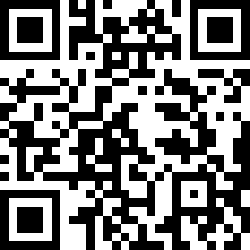
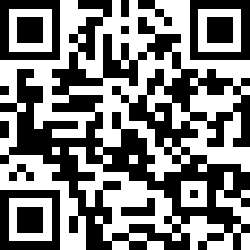
fix: 🐛 fix source link (#32)

diff --git a/jarvis/lavajug-2025/index.html b/jarvis/lavajug-2025/index.html
@@ -1,4 +1,4 @@
-<!doctype html><html lang=en><head><meta charset=UTF-8><meta name=viewport content="width=device-width,initial-scale=1"><link rel=manifest href=./manifest.json><link rel="shortcut icon" href=./favicon.ico sizes=any type=image/x-icon><title>🤖 Crée ton assistant personnel<br>avec Picocli et LangChain4J 🧑💻 ☕</title><link rel=stylesheet href=slidesk.css><link href=./plugins/footer/footer.css rel=stylesheet><link href=./plugins/animate/animate.css rel=stylesheet><link href=./plugins/number/number.css rel=stylesheet><link href=./plugins/steps/steps.css rel=stylesheet><link rel=stylesheet href=assets/css/custom.css></head><body class=sd-app><section class="sd-slide main-slide" data-num=1 data-slug=!slide-1><h2></h2><h1>🤖 Crée ton assistant personnel<br>avec Picocli et LangChain4J 🧑💻 ☕</h1><br><br><figure class=sd-img style=margin-top:80px><img src=assets/images/logo-conf.png loading=lazy alt="conference logo"><figcaption style=display:none>conference logo</figcaption></figure><aside class=sd-notes><br><br>Hello, welcome everyone!<br><br></aside></section><section class="sd-slide white-footer" data-num=2 data-slug=merci-><h2>Merci !!!</h2><figure class=sd-img style=max-width:100vw><img src=assets/images/love.jpg loading=lazy alt=love width=1920 height=1280><figcaption style=display:none>love</figcaption></figure><h1 style=color:#fff;position:absolute;top:40%;left:60%>Merci !!!</h1><div class="full-image-author image-author-white"><a href=https://unsplash.com/fr/@bel2000a>Belinda Fewings</a></div><aside class=sd-notes><br><br>I'm very proud to be here.<br>Thank you for coming to this session, and thank you to the organizers for selecting my conference<br><br></aside></section><section class="sd-slide slide-text" data-num=3 data-slug=stphane-philippart><h2>Stéphane Philippart</h2><figure class=sd-img style=float:right;margin-top:-16vh><img src=assets/images/speaker/whoami.png loading=lazy alt="" width=494 height=155><figcaption style=display:none></figcaption></figure><ul><li>🏷 🥑 DeveloperAdvocate@OVHCloud 🦄</li><li>🏷 Co-créateur de TADx (meetups à Tours)</li></ul><figure class=sd-img style=float:right;margin-top:-9vh><img src=assets/images/speaker/tadx.png loading=lazy alt=tadx width=304 height=165><figcaption style=display:none>tadx</figcaption></figure><ul><li>☕ Développeur Java dans les nuages ☁</li></ul><figure class=sd-img style=float:right><img src=assets/images/speaker/ours.png loading=lazy alt=ours width=437 height=414><figcaption style=display:none>ours</figcaption></figure><ul><li>🐦 <span class=twitter>@wildagsx</span></li><li>🔗 <a href=https://philippart-s.github.io/blog>https://philippart-s.github.io/blog</a></li><li>🐙 <a href=https://github.com/philippart-s/ >https://github.com/philippart-s/</a></li><li>💬 <a href=https://www.linkedin.com/in/philippartstephane/ >https://www.linkedin.com/in/philippartstephane/</a></li></ul><aside class=sd-notes><br><br>Quickly,<br><br>I'm Stéphane Philippart I'm a developer advocate at OVHcloud: a French cloud provider.<br><br>I've been a Java developer for about 20 years, I've started to use Java when it was 1.0.2.<br>I'll let you calculate my age.<br><br>I'm the co-creator of a great meetup in Tours, just 1 hour train from Paris.<br><br>And, of course, as you can hear, I'm French so forgive my terrible accent.<br><br></aside></section><section class=sd-slide data-num=4 data-slug=-qui-sait-ce-que-signifie-cli-><h2>🖐 Qui sait ce que signifie C.L.I ? 🖐</h2></section><section class="sd-slide slide-text steps" data-num=5 data-slug=-command-line-interface><h2>🖥 Command Line Interface</h2><figure class=sd-img style=float:right;margin-top:-18vh><img src=assets/images/CLI/ubuntu.png loading=lazy alt=ubuntu><figcaption style=display:none>ubuntu</figcaption></figure><div class="image-author-black img-right-author"><a href=https://unsplash.com/fr/@6heinz3r>Gabriel Heinzer</a></div><ul><li>✨ Faire du hype avec de l’ancien</li><li>🗓 Date des années 60 - 70</li><li>🧩 Revient à la mode durant les années 2000 avec les Frameworks évolués</li><li>⚡ Permet d’automatiser des actions dans un terminal</li><li>🤝 Simplifier l’accès aux API (souvent via un SDK)</li></ul><aside class=sd-notes><br>Who knows what CLI means?<br>Yeah a lot of you know what CLI means, it's command line interface, it's hype making with the old stuff, it's 60s and 70s, we had passive terminals, we had mainframes, we had to talk to the mainframes, and so we started creating things through terminals to talk to the mainframes.<br><br>And then in the 2000s we had the emergence of frameworks that were a bit more or less complex to manipulate more or less complex to initialize and so the CLIs allowed to automate actions to manage these frameworks or to bootstrap projects.<br><br>And also it allowed us to dialog with APIs you know everything is API now doing CURL it's nice but it's a bit tedious so we put an SDK often between the two and then we make a CLI that allows to dialog with APIs.<br><br>There are known CLI like dockers or kubectl, and often it's very natural language oriented, and you describe what you want to do.<br></aside></section><section class="sd-slide slide-text steps" data-num=6 data-slug=-quelle-technologie-utiliser-><h2>⚗ Quelle technologie utiliser ?</h2><figure class=sd-img style=float:right;margin-top:-18vh><img src=assets/images/CLI/php.png loading=lazy alt=php><figcaption style=display:none>php</figcaption></figure><div class="cli-image-author-language img-right-author"><a href=https://unsplash.com/fr/@kobuagency>KOBU Agency</a></div><ul><li>👊 Toutes !</li><li>🐍 C, Python, Perl …</li><li>🦀 Ces derniers temps : Rust ou Go</li></ul><aside class=sd-notes><br><br>To create a CLI, you have to choose the technology.<br>I want to say that you can use any technology you are comfortable with as long as it can be run in a terminal.<br><br>Historically we had languages like C, Pearl, Python that were very well represented and then for a few years now we've had Rust and Go already because these languages are relatively fashionable but we must also recognize that they have a tooling that is very well adapted to do CLI.<br><br></aside></section><section class="sd-slide white-footer" data-num=7 data-slug=et-en-java-><h2>Et en Java ?</h2><figure class=sd-img style=max-width:100vw><img src=assets/images/lego.jpeg loading=lazy alt=lego width=1920 height=1280><figcaption style=display:none>lego</figcaption></figure><h1 style=color:#fff;position:absolute;top:10%;left:40%>Et en Java ?</h1><div class="full-image-author love-image-author"><a href=https://pixabay.com/fr/users/kirill_makes_pics-5203613/ >kirill_makes_pics</a></div><aside class=sd-notes><br><br>I told you I'm a pretty old Java developer and what I like about the Java world is to say, "Hey, there's something out there and in Java how do I do it?"<br><br></aside></section><section class="sd-slide slide-text steps" data-num=8 data-slug=-picocli><h2>🏋 PICOCLI</h2><figure class=sd-img style=float:right;margin-top:-18vh><img src=assets/images/picocli.png loading=lazy alt=picocli><figcaption style=display:none>picocli</figcaption></figure><div class="full-image-author image-author-black"><a href=https://picocli.info/ >Picocli</a></div><ul><li>☕ Du java pour faire une CLI …</li><li>… mais pas que : <img src=assets/images/groovy.png width=100px style=display:inline-block;vertical-align:middle> <img src=assets/images/kotlin.png width=50px style=display:inline-block;vertical-align:middle> <img src=assets/images/scala.png width=60px style=display:inline-block;vertical-align:middle></li><li>🥰 Simple grâce aux annotations</li><li>🚀 Quarkus ❤</li><li>🧐 Une vraie CLI ?</li></ul><aside class=sd-notes><br><br>Just few slides before coding.<br><br>If you are looking to create a CLI with Java, there is a high chances that you will come across Picocli, it is the most represented framework to make a CLI with Java.<br><br>Not only in pure Java but also in Kotlin, Scala and Groovy.<br><br>With Picocli it's a lot of annotations to simplify the writing, if you left Java 15 years ago: Java is like the others now we have annotations and syntactic sugar.<br>We just make arobas and then it works by magic, it's a big summary, obviously.<br><br>I will use Quarkus too.<br>Who knows Quarkus, who uses Quarkus in production?<br>Quarkus mantra is: subatomic, supersonic, Java.<br>What I'm saying is like your Java applications take a lot of vitamines!<br>It's very efficient for cloud native development.<br>But we're not going to use it on the cloud native part we're going to use if for the developer experience.<br><br>You'll see it's quite magical and what I propose is, at the end of this talk, to know if I won my bet: did I make you a CLI in Java?<br><br></aside></section><section class=sd-slide data-num=9 data-slug=dmos><h2>Démos</h2><figure class=sd-img style=max-width:100vw><img src=assets/images/demos.jpg loading=lazy alt=demo width=1920 height=1280><figcaption style=display:none>demo</figcaption></figure><h1 style=color:#000;position:absolute;top:10%;left:45%>Démos</h1><div class="full-image-author demo-image-author"><a href=https://www.illumination.com/ >Illumination Entertainment</a></div><aside class=sd-notes><br><br>Enough talking, let's move on the code part.<br><br></aside></section><section class=sd-slide data-num=10 data-slug=-on-a-cr-notre-cli-><h2>🎉 On a créé notre CLI !!! 😎</h2><aside class=sd-notes><br><br>Ok, wonderful, we have created our CLI!!!<br>And there are 10 minutes left.<br><br><br>Maybe so you'll think I'm a bit of an imposter it's a simple script not well written and there is a JVM installed to distribute the CLI.<br><br>You're right, what I'm actually proposing to you is to make a real executable now that's where we have GraalVM coming into play.<br><br></aside></section><section class="sd-slide graal" data-num=11 data-slug=graalvm-><h2>GraalVM !!</h2><img src=assets/images/aventurier.jfif alt="" class=""><aside class=sd-notes><br><br>GraalVM basically it's Oracle that created a VM, a JDK with tools to be able to generate binaries from Java classes.<br>I often say when we mix Quarkus that already starts very quickly and GraalVM you have the best of both worlds.<br><br></aside></section><section class=sd-slide data-num=12 data-slug=!slide-12><h2></h2><div class="full-image-author love-image-author"><a href=https://www.pixar.com/ >Pixar Studio</a></div><figure class=sd-img style=max-width:100vw><img src=assets/images/buzz-ai.jpg loading=lazy alt=buzz width=1920 height=1150><figcaption style=display:none>buzz</figcaption></figure><aside class=sd-notes><br><br>But we are in 2025, and I'm giving you a talk where I don't talk about AI and I'm not credible so what I propose you as time remains we're going to add AI because in addition it's called Jarvis.<br><br>I'm going to use something that's called LangChain4J.<br>Do you know LangChain?<br>Ok LangChain4J is the same thing but in Java so for those who know LangChain bah it's the same thing but in Java.<br><br>Ok so basically this is a framework that will allow me to consume API that expose mainly LLMs (like Open AI for example) but without bothering me to know how it works behind.<br><br></aside></section><section class="sd-slide slide-text steps" data-num=13 data-slug=-pour-aller-plus-loin><h2>✨ Pour aller plus loin</h2><figure class=sd-img style=float:right;margin-top:-19vh;margin-right:-3vh><img src=assets/images/buzz.jpg loading=lazy alt=picocli><figcaption style=display:none>picocli</figcaption></figure><div class="full-image-author image-author-black"><a href=https://unsplash.com/fr/@sushioutlaw>Brian McGowan</a></div><ul><li>📦 Encapsulation automatique des types et converteurs</li><li>🔡 Valeurs par défaut dynamiques, validation des valeurs, liste de choix, …</li><li>⛑ Génération des pages man, coloration,<br>aide avancée</li><li>⚙ Plusieurs exécutables par OS avec GraalVM</li><li>…</li></ul><aside class=sd-notes><br><br>If you want to go further with Picocli.<br>You can manipulate more sophisticated types with Picocli, even create your own converters.<br>You can use more default values with dynamic values, validation and so one.<br>You can generate man pages, you can have syntax coloring, you can have advanced help.<br>Again, executables are generated for the current OS, don't forget that when you want to distribute your application.<br><br></aside></section><section class="sd-slide slide-text steps" data-num=14 data-slug=-ai-endpoints><h2>🤖 AI Endpoints</h2><figure class=sd-img style=float:right;margin-top:-20vh;margin-right:-3vh><img src=assets/images/ai-endpoints.webp loading=lazy alt=ovhcloud-api><figcaption style=display:none>ovhcloud-api</figcaption></figure><ul><li>🧠 IA as a service</li><li>🧱 Llama, Mistral, DeepSeek-R1-Distill, Llava-Next-Mistral, Nvidia RIVA ASR, …</li><li>👩💻 Orientés développeuses / développeurs</li><li>☁ Cloud de confiance, vos données vous appartiennent</li><li>🔓 Respect les API standard, <strong>unlock technologies</strong></li><li>🔗 <a href=https://endpoints.ai.cloud.ovh.net/ >https://endpoints.ai.cloud.ovh.net/</a></li></ul><aside class=sd-notes><br>If you want more information about AI endpoints, here is a brief overview:<br>AI endpoints provides AI as a service, offering various models like Llama, Mistral, and more.<br>They are made for developers, making them easy to integrate and use.<br>Your data is safe and secure in our trusted cloud environment.<br>Additionally, these endpoints comply with standard APIs.<br><br>And for a few days it's in general availability!<br><br></aside></section><section class=sd-slide data-num=15 data-slug=!slide-15><h2></h2><figure class=sd-img style=max-width:100vw><img src=assets/images/ovhcloud-world.png loading=lazy alt="" width=1896 height=994><figcaption style=display:none></figcaption></figure><aside class=sd-notes><br><br>If you want more information about OVHcloud, don't hesitate to ask me.<br>I'll be happy to answer any questions you might have.<br>We can talk about our managed Kubernetes, our Databases, our AI solutions, and much more.<br><br></aside></section><section class="sd-slide slide-text" data-num=16 data-slug=-liens><h2>🔗 Liens</h2><figure class=sd-img style=float:right;margin-top:-19vh><img src=assets/images/link.png loading=lazy alt="" height=250><figcaption style=display:none></figcaption></figure><p><a href=https://picocli.info/ >https://picocli.info/</a></p><p><a href=https://quarkus.io/ >https://quarkus.io/</a></p><p><a href=https://quarkus.io/guides/cli-tooling>https://quarkus.io/guides/cli-tooling</a></p><p><a href=https://quarkus.io/guides/picocli>https://quarkus.io/guides/picocli</a></p><p><a href=https://quarkus.io/guides/dev-mode-differences>https://quarkus.io/guides/dev-mode-differences</a></p><p><a href=https://www.graalvm.org/latest/docs/getting-started/ >https://www.graalvm.org/latest/docs/getting-started/</a></p><p><a href=https://github.com/quarkusio/quarkus/tree/main/devtools/cli>https://github.com/quarkusio/quarkus/tree/main/devtools/cli</a></p><p><a href=https://github.com/gouz/slidesk>https://github.com/gouz/slidesk</a></p><aside class=sd-notes><br><br>If you want to explore more about the topics discussed, here are some links that might be of interest.<br><br></aside></section><section class=sd-slide data-num=17 data-slug=!slide-17><h2></h2><h2>Merci !!!</h2><table style=font-size:1.5vw;text-align:center;width:100%><tr><td align=center width=33%><img src=assets/images/thanks/qrcode-slides.png alt=""></td><td align=center width=33%><img src=assets/images/thanks/qrcode-feedbacks.png alt=""></td><td align=center width=33%><img src=assets/images/thanks/qrcode-sources.png alt=""></td></tr><tr><td>Slides<br><a href=https://ovh.to/ECDe2ks>https://ovh.to/ECDe2ks</a></td><td>Feedbacks<br><a href=https://ovh.to/z84NgKg>https://ovh.to/z84NgKg</a></td><td>Sources<br><a href=https://ovh.to/ofPTAes>https://ovh.to/ofPTAes</a></td></tr></table><br><br><br><br><img style=display:block;margin-left:auto;margin-right:auto;width:20% src=assets/images/thanks/minions.png><aside class=sd-notes><br><br>Thank you for your attention.<br>I hope you enjoyed the presentation and learned something new.<br>You have all the information with the slides QR code and please, feel free to give me feedbacks.<br>Thank you again and have a great day!<br><br></aside></section><script src=slidesk.js></script><script src=./plugins/animate/animate.js></script><script src=./plugins/number/number.js></script><script src=./plugins/steps/steps.js></script><footer id='numslide'></footer><div class="footer">
+<!doctype html><html lang=en><head><meta charset=UTF-8><meta name=viewport content="width=device-width,initial-scale=1"><link rel=manifest href=./manifest.json><link rel="shortcut icon" href=./favicon.ico sizes=any type=image/x-icon><title>🤖 Crée ton assistant personnel<br>avec Picocli et LangChain4J 🧑💻 ☕</title><link rel=stylesheet href=slidesk.css><link href=./plugins/footer/footer.css rel=stylesheet><link href=./plugins/animate/animate.css rel=stylesheet><link href=./plugins/number/number.css rel=stylesheet><link href=./plugins/steps/steps.css rel=stylesheet><link rel=stylesheet href=assets/css/custom.css></head><body class=sd-app><section class="sd-slide main-slide" data-num=1 data-slug=!slide-1><h2></h2><h1>🤖 Crée ton assistant personnel<br>avec Picocli et LangChain4J 🧑💻 ☕</h1><br><br><figure class=sd-img style=margin-top:80px><img src=assets/images/logo-conf.png loading=lazy alt="conference logo"><figcaption style=display:none>conference logo</figcaption></figure><aside class=sd-notes><br><br>Hello, welcome everyone!<br><br></aside></section><section class="sd-slide white-footer" data-num=2 data-slug=merci-><h2>Merci !!!</h2><figure class=sd-img style=max-width:100vw><img src=assets/images/love.jpg loading=lazy alt=love width=1920 height=1280><figcaption style=display:none>love</figcaption></figure><h1 style=color:#fff;position:absolute;top:40%;left:60%>Merci !!!</h1><div class="full-image-author image-author-white"><a href=https://unsplash.com/fr/@bel2000a>Belinda Fewings</a></div><aside class=sd-notes><br><br>I'm very proud to be here.<br>Thank you for coming to this session, and thank you to the organizers for selecting my conference<br><br></aside></section><section class="sd-slide slide-text" data-num=3 data-slug=stphane-philippart><h2>Stéphane Philippart</h2><figure class=sd-img style=float:right;margin-top:-16vh><img src=assets/images/speaker/whoami.png loading=lazy alt="" width=494 height=155><figcaption style=display:none></figcaption></figure><ul><li>🏷 🥑 DeveloperAdvocate@OVHCloud 🦄</li><li>🏷 Co-créateur de TADx (meetups à Tours)</li></ul><figure class=sd-img style=float:right;margin-top:-9vh><img src=assets/images/speaker/tadx.png loading=lazy alt=tadx width=304 height=165><figcaption style=display:none>tadx</figcaption></figure><ul><li>☕ Développeur Java dans les nuages ☁</li></ul><figure class=sd-img style=float:right><img src=assets/images/speaker/ours.png loading=lazy alt=ours width=437 height=414><figcaption style=display:none>ours</figcaption></figure><ul><li>🐦 <span class=twitter>@wildagsx</span></li><li>🔗 <a href=https://philippart-s.github.io/blog>https://philippart-s.github.io/blog</a></li><li>🐙 <a href=https://github.com/philippart-s/ >https://github.com/philippart-s/</a></li><li>💬 <a href=https://www.linkedin.com/in/philippartstephane/ >https://www.linkedin.com/in/philippartstephane/</a></li></ul><aside class=sd-notes><br><br>Quickly,<br><br>I'm Stéphane Philippart I'm a developer advocate at OVHcloud: a French cloud provider.<br><br>I've been a Java developer for about 20 years, I've started to use Java when it was 1.0.2.<br>I'll let you calculate my age.<br><br>I'm the co-creator of a great meetup in Tours, just 1 hour train from Paris.<br><br>And, of course, as you can hear, I'm French so forgive my terrible accent.<br><br></aside></section><section class=sd-slide data-num=4 data-slug=-qui-sait-ce-que-signifie-cli-><h2>🖐 Qui sait ce que signifie C.L.I ? 🖐</h2></section><section class="sd-slide slide-text steps" data-num=5 data-slug=-command-line-interface><h2>🖥 Command Line Interface</h2><figure class=sd-img style=float:right;margin-top:-18vh><img src=assets/images/CLI/ubuntu.png loading=lazy alt=ubuntu><figcaption style=display:none>ubuntu</figcaption></figure><div class="image-author-black img-right-author"><a href=https://unsplash.com/fr/@6heinz3r>Gabriel Heinzer</a></div><ul><li>✨ Faire du hype avec de l’ancien</li><li>🗓 Date des années 60 - 70</li><li>🧩 Revient à la mode durant les années 2000 avec les Frameworks évolués</li><li>⚡ Permet d’automatiser des actions dans un terminal</li><li>🤝 Simplifier l’accès aux API (souvent via un SDK)</li></ul><aside class=sd-notes><br>Who knows what CLI means?<br>Yeah a lot of you know what CLI means, it's command line interface, it's hype making with the old stuff, it's 60s and 70s, we had passive terminals, we had mainframes, we had to talk to the mainframes, and so we started creating things through terminals to talk to the mainframes.<br><br>And then in the 2000s we had the emergence of frameworks that were a bit more or less complex to manipulate more or less complex to initialize and so the CLIs allowed to automate actions to manage these frameworks or to bootstrap projects.<br><br>And also it allowed us to dialog with APIs you know everything is API now doing CURL it's nice but it's a bit tedious so we put an SDK often between the two and then we make a CLI that allows to dialog with APIs.<br><br>There are known CLI like dockers or kubectl, and often it's very natural language oriented, and you describe what you want to do.<br></aside></section><section class="sd-slide slide-text steps" data-num=6 data-slug=-quelle-technologie-utiliser-><h2>⚗ Quelle technologie utiliser ?</h2><figure class=sd-img style=float:right;margin-top:-18vh><img src=assets/images/CLI/php.png loading=lazy alt=php><figcaption style=display:none>php</figcaption></figure><div class="cli-image-author-language img-right-author"><a href=https://unsplash.com/fr/@kobuagency>KOBU Agency</a></div><ul><li>👊 Toutes !</li><li>🐍 C, Python, Perl …</li><li>🦀 Ces derniers temps : Rust ou Go</li></ul><aside class=sd-notes><br><br>To create a CLI, you have to choose the technology.<br>I want to say that you can use any technology you are comfortable with as long as it can be run in a terminal.<br><br>Historically we had languages like C, Pearl, Python that were very well represented and then for a few years now we've had Rust and Go already because these languages are relatively fashionable but we must also recognize that they have a tooling that is very well adapted to do CLI.<br><br></aside></section><section class="sd-slide white-footer" data-num=7 data-slug=et-en-java-><h2>Et en Java ?</h2><figure class=sd-img style=max-width:100vw><img src=assets/images/lego.jpeg loading=lazy alt=lego width=1920 height=1280><figcaption style=display:none>lego</figcaption></figure><h1 style=color:#fff;position:absolute;top:10%;left:40%>Et en Java ?</h1><div class="full-image-author love-image-author"><a href=https://pixabay.com/fr/users/kirill_makes_pics-5203613/ >kirill_makes_pics</a></div><aside class=sd-notes><br><br>I told you I'm a pretty old Java developer and what I like about the Java world is to say, "Hey, there's something out there and in Java how do I do it?"<br><br></aside></section><section class="sd-slide slide-text steps" data-num=8 data-slug=-picocli><h2>🏋 PICOCLI</h2><figure class=sd-img style=float:right;margin-top:-18vh><img src=assets/images/picocli.png loading=lazy alt=picocli><figcaption style=display:none>picocli</figcaption></figure><div class="full-image-author image-author-black"><a href=https://picocli.info/ >Picocli</a></div><ul><li>☕ Du java pour faire une CLI …</li><li>… mais pas que : <img src=assets/images/groovy.png width=100px style=display:inline-block;vertical-align:middle> <img src=assets/images/kotlin.png width=50px style=display:inline-block;vertical-align:middle> <img src=assets/images/scala.png width=60px style=display:inline-block;vertical-align:middle></li><li>🥰 Simple grâce aux annotations</li><li>🚀 Quarkus ❤</li><li>🧐 Une vraie CLI ?</li></ul><aside class=sd-notes><br><br>Just few slides before coding.<br><br>If you are looking to create a CLI with Java, there is a high chances that you will come across Picocli, it is the most represented framework to make a CLI with Java.<br><br>Not only in pure Java but also in Kotlin, Scala and Groovy.<br><br>With Picocli it's a lot of annotations to simplify the writing, if you left Java 15 years ago: Java is like the others now we have annotations and syntactic sugar.<br>We just make arobas and then it works by magic, it's a big summary, obviously.<br><br>I will use Quarkus too.<br>Who knows Quarkus, who uses Quarkus in production?<br>Quarkus mantra is: subatomic, supersonic, Java.<br>What I'm saying is like your Java applications take a lot of vitamines!<br>It's very efficient for cloud native development.<br>But we're not going to use it on the cloud native part we're going to use if for the developer experience.<br><br>You'll see it's quite magical and what I propose is, at the end of this talk, to know if I won my bet: did I make you a CLI in Java?<br><br></aside></section><section class=sd-slide data-num=9 data-slug=dmos><h2>Démos</h2><figure class=sd-img style=max-width:100vw><img src=assets/images/demos.jpg loading=lazy alt=demo width=1920 height=1280><figcaption style=display:none>demo</figcaption></figure><h1 style=color:#000;position:absolute;top:10%;left:45%>Démos</h1><div class="full-image-author demo-image-author"><a href=https://www.illumination.com/ >Illumination Entertainment</a></div><aside class=sd-notes><br><br>Enough talking, let's move on the code part.<br><br></aside></section><section class=sd-slide data-num=10 data-slug=-on-a-cr-notre-cli-><h2>🎉 On a créé notre CLI !!! 😎</h2><aside class=sd-notes><br><br>Ok, wonderful, we have created our CLI!!!<br>And there are 10 minutes left.<br><br><br>Maybe so you'll think I'm a bit of an imposter it's a simple script not well written and there is a JVM installed to distribute the CLI.<br><br>You're right, what I'm actually proposing to you is to make a real executable now that's where we have GraalVM coming into play.<br><br></aside></section><section class="sd-slide graal" data-num=11 data-slug=graalvm-><h2>GraalVM !!</h2><img src=assets/images/aventurier.jfif alt="" class=""><aside class=sd-notes><br><br>GraalVM basically it's Oracle that created a VM, a JDK with tools to be able to generate binaries from Java classes.<br>I often say when we mix Quarkus that already starts very quickly and GraalVM you have the best of both worlds.<br><br></aside></section><section class=sd-slide data-num=12 data-slug=!slide-12><h2></h2><div class="full-image-author love-image-author"><a href=https://www.pixar.com/ >Pixar Studio</a></div><figure class=sd-img style=max-width:100vw><img src=assets/images/buzz-ai.jpg loading=lazy alt=buzz width=1920 height=1150><figcaption style=display:none>buzz</figcaption></figure><aside class=sd-notes><br><br>But we are in 2025, and I'm giving you a talk where I don't talk about AI and I'm not credible so what I propose you as time remains we're going to add AI because in addition it's called Jarvis.<br><br>I'm going to use something that's called LangChain4J.<br>Do you know LangChain?<br>Ok LangChain4J is the same thing but in Java so for those who know LangChain bah it's the same thing but in Java.<br><br>Ok so basically this is a framework that will allow me to consume API that expose mainly LLMs (like Open AI for example) but without bothering me to know how it works behind.<br><br></aside></section><section class="sd-slide slide-text steps" data-num=13 data-slug=-pour-aller-plus-loin><h2>✨ Pour aller plus loin</h2><figure class=sd-img style=float:right;margin-top:-19vh;margin-right:-3vh><img src=assets/images/buzz.jpg loading=lazy alt=picocli><figcaption style=display:none>picocli</figcaption></figure><div class="full-image-author image-author-black"><a href=https://unsplash.com/fr/@sushioutlaw>Brian McGowan</a></div><ul><li>📦 Encapsulation automatique des types et converteurs</li><li>🔡 Valeurs par défaut dynamiques, validation des valeurs, liste de choix, …</li><li>⛑ Génération des pages man, coloration,<br>aide avancée</li><li>⚙ Plusieurs exécutables par OS avec GraalVM</li><li>…</li></ul><aside class=sd-notes><br><br>If you want to go further with Picocli.<br>You can manipulate more sophisticated types with Picocli, even create your own converters.<br>You can use more default values with dynamic values, validation and so one.<br>You can generate man pages, you can have syntax coloring, you can have advanced help.<br>Again, executables are generated for the current OS, don't forget that when you want to distribute your application.<br><br></aside></section><section class="sd-slide slide-text steps" data-num=14 data-slug=-ai-endpoints><h2>🤖 AI Endpoints</h2><figure class=sd-img style=float:right;margin-top:-20vh;margin-right:-3vh><img src=assets/images/ai-endpoints.webp loading=lazy alt=ovhcloud-api><figcaption style=display:none>ovhcloud-api</figcaption></figure><ul><li>🧠 IA as a service</li><li>🧱 Llama, Mistral, DeepSeek-R1-Distill, Llava-Next-Mistral, Nvidia RIVA ASR, …</li><li>👩💻 Orientés développeuses / développeurs</li><li>☁ Cloud de confiance, vos données vous appartiennent</li><li>🔓 Respect les API standard, <strong>unlock technologies</strong></li><li>🔗 <a href=https://endpoints.ai.cloud.ovh.net/ >https://endpoints.ai.cloud.ovh.net/</a></li></ul><aside class=sd-notes><br>If you want more information about AI endpoints, here is a brief overview:<br>AI endpoints provides AI as a service, offering various models like Llama, Mistral, and more.<br>They are made for developers, making them easy to integrate and use.<br>Your data is safe and secure in our trusted cloud environment.<br>Additionally, these endpoints comply with standard APIs.<br><br>And for a few days it's in general availability!<br><br></aside></section><section class=sd-slide data-num=15 data-slug=!slide-15><h2></h2><figure class=sd-img style=max-width:100vw><img src=assets/images/ovhcloud-world.png loading=lazy alt="" width=1896 height=994><figcaption style=display:none></figcaption></figure><aside class=sd-notes><br><br>If you want more information about OVHcloud, don't hesitate to ask me.<br>I'll be happy to answer any questions you might have.<br>We can talk about our managed Kubernetes, our Databases, our AI solutions, and much more.<br><br></aside></section><section class="sd-slide slide-text" data-num=16 data-slug=-liens><h2>🔗 Liens</h2><figure class=sd-img style=float:right;margin-top:-19vh><img src=assets/images/link.png loading=lazy alt="" height=250><figcaption style=display:none></figcaption></figure><p><a href=https://picocli.info/ >https://picocli.info/</a></p><p><a href=https://quarkus.io/ >https://quarkus.io/</a></p><p><a href=https://quarkus.io/guides/cli-tooling>https://quarkus.io/guides/cli-tooling</a></p><p><a href=https://quarkus.io/guides/picocli>https://quarkus.io/guides/picocli</a></p><p><a href=https://quarkus.io/guides/dev-mode-differences>https://quarkus.io/guides/dev-mode-differences</a></p><p><a href=https://www.graalvm.org/latest/docs/getting-started/ >https://www.graalvm.org/latest/docs/getting-started/</a></p><p><a href=https://github.com/quarkusio/quarkus/tree/main/devtools/cli>https://github.com/quarkusio/quarkus/tree/main/devtools/cli</a></p><p><a href=https://github.com/gouz/slidesk>https://github.com/gouz/slidesk</a></p><aside class=sd-notes><br><br>If you want to explore more about the topics discussed, here are some links that might be of interest.<br><br></aside></section><section class=sd-slide data-num=17 data-slug=!slide-17><h2></h2><h2>Merci !!!</h2><table style=font-size:1.5vw;text-align:center;width:100%><tr><td align=center width=33%><img src=assets/images/thanks/qrcode-slides.png alt=""></td><td align=center width=33%><img src=assets/images/thanks/qrcode-feedbacks.png alt=""></td><td align=center width=33%><img src=assets/images/thanks/qrcode-sources.png alt=""></td></tr><tr><td>Slides<br><a href=https://ovh.to/ECDe2ks>https://ovh.to/ECDe2ks</a></td><td>Feedbacks<br><a href=https://ovh.to/z84NgKg>https://ovh.to/z84NgKg</a></td><td>Sources<br><a href=https://ovh.to/DGo3N1U>https://ovh.to/DGo3N1U</a></td></tr></table><br><br><br><br><img style=display:block;margin-left:auto;margin-right:auto;width:20% src=assets/images/thanks/minions.png><aside class=sd-notes><br><br>Thank you for your attention.<br>I hope you enjoyed the presentation and learned something new.<br>You have all the information with the slides QR code and please, feel free to give me feedbacks.<br>Thank you again and have a great day!<br><br></aside></section><script src=slidesk.js></script><script src=./plugins/animate/animate.js></script><script src=./plugins/number/number.js></script><script src=./plugins/steps/steps.js></script><footer id='numslide'></footer><div class="footer">
   <div class="author-footer">@wildagsx</div>
   <div class="ovhcloud-footer">
     <img src="assets/images/OVHcloud_logo.png" alt="OVHcloud logo" style="width: 15%;" />
